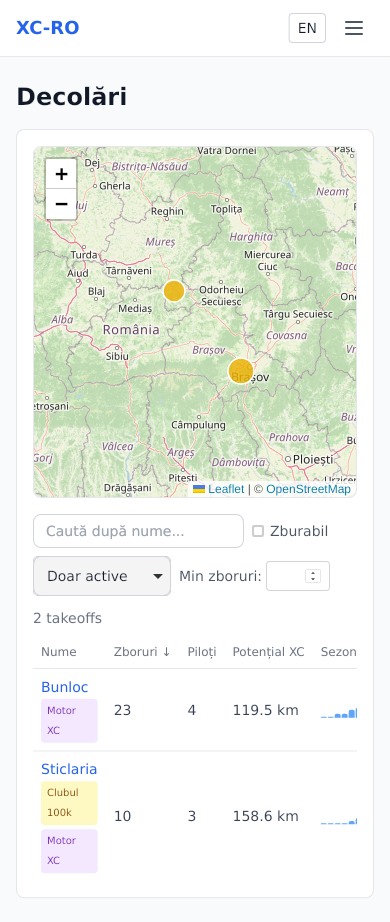
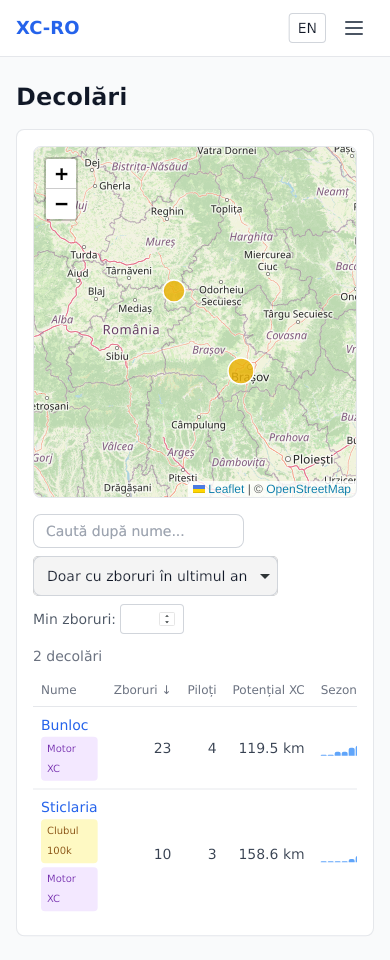
improve takeoff filters (#58)
* improve takeoff filters

* better labels

* update tests

* Refactor: extract YEAR_MS constant and clarify dormant filter label (#59)

* Initial plan

* refactor: extract YEAR_MS constant and update dormant filter label

---------

---------

diff --git a/src/components/__tests__/TakeoffsTable.test.tsx b/src/components/__tests__/TakeoffsTable.test.tsx
@@ -8,9 +8,8 @@ jest.mock("next-intl", () => ({
   useTranslations: () => (key: string) => {
     const map: Record<string, string> = {
       search: "Search by name...",
-      flyableNow: "Flyable now",
-      activeOnly: "Active only",
-      dormantOnly: "Dormant only",
+      activeOnly: "Flown in last year",
+      dormantOnly: "No flights in over a year",
       minFlights: "Min flights",
       title: "Takeoffs",
       all: "All",
@@ -137,11 +136,12 @@ const mockMapData = [
 ];
 
 describe("TakeoffsTable", () => {
-  it("renders the table with all takeoff rows (active filter default)", () => {
+  it("renders the table with takeoffs meeting min flights default (10)", () => {
     render(<TakeoffsTable takeoffs={mockTakeoffs} />);
-    // Default filter is "active" which filters to takeoffs active in last year
+    // Default filter is "all" with minFlights=10, so Dormant Site (5) is excluded
     expect(screen.getByText("Bunloc")).toBeInTheDocument();
     expect(screen.getByText("Sticlaria")).toBeInTheDocument();
+    expect(screen.queryByText("Dormant Site")).not.toBeInTheDocument();
   });
 
   it("renders table headers", () => {
@@ -157,7 +157,7 @@ describe("TakeoffsTable", () => {
 
   it("shows the count of displayed takeoffs", () => {
     render(<TakeoffsTable takeoffs={mockTakeoffs} />);
-    // With default "active" filter, active takeoffs are Bunloc, Sticlaria, and Székely
+    // Default "all" filter with minFlights=10: Bunloc (500), Sticlaria (200), Székely (100)
     expect(screen.getByText("3 takeoffs")).toBeInTheDocument();
   });
 
@@ -177,9 +177,9 @@ describe("TakeoffsTable", () => {
     const user = userEvent.setup();
     render(<TakeoffsTable takeoffs={mockTakeoffs} />);
 
-    // Switch to "all" filter to show Székely
-    const select = screen.getByDisplayValue("Active only");
-    await user.selectOptions(select, "all");
+    // Default is "all", clear minFlights to show all including Székely
+    const minFlightsInput = screen.getByRole("spinbutton");
+    await user.clear(minFlightsInput);
 
     const searchInput = screen.getByPlaceholderText("Search by name...");
     await user.type(searchInput, "Szekely");
@@ -193,11 +193,9 @@ describe("TakeoffsTable", () => {
     const user = userEvent.setup();
     render(<TakeoffsTable takeoffs={mockTakeoffs} />);
 
-    // Switch to "all" filter first
-    const select = screen.getByDisplayValue("Active only");
-    await user.selectOptions(select, "all");
-
+    // Default is "all" with minFlights=10, clear and type 100
     const minFlightsInput = screen.getByRole("spinbutton");
+    await user.clear(minFlightsInput);
     await user.type(minFlightsInput, "100");
 
     // Only Bunloc (500), Sticlaria (200), and Székely (100) have >= 100 flights
@@ -210,19 +208,24 @@ describe("TakeoffsTable", () => {
     const user = userEvent.setup();
     render(<TakeoffsTable takeoffs={mockTakeoffs} />);
 
-    const select = screen.getByDisplayValue("Active only");
+    // Clear minFlights so Dormant Site (5 flights) isn't excluded
+    const minFlightsInput = screen.getByRole("spinbutton");
+    await user.clear(minFlightsInput);
+
+    const select = screen.getByDisplayValue("All");
     await user.selectOptions(select, "dormant");
 
     expect(screen.getByText("Dormant Site")).toBeInTheDocument();
     expect(screen.queryByText("Bunloc")).not.toBeInTheDocument();
   });
 
-  it("shows all takeoffs with 'all' filter", async () => {
+  it("shows all takeoffs when minFlights is cleared", async () => {
     const user = userEvent.setup();
     render(<TakeoffsTable takeoffs={mockTakeoffs} />);
 
-    const select = screen.getByDisplayValue("Active only");
-    await user.selectOptions(select, "all");
+    // Default is "all" already, just clear minFlights
+    const minFlightsInput = screen.getByRole("spinbutton");
+    await user.clear(minFlightsInput);
 
     expect(screen.getByText("4 takeoffs")).toBeInTheDocument();
   });

diff --git a/src/components/TakeoffsTable.tsx b/src/components/TakeoffsTable.tsx
@@ -65,6 +65,8 @@ function Badge({ label, color }: { label: string; color: string }) {
   );
 }
 
+const YEAR_MS = 365 * 24 * 60 * 60 * 1000;
+
 export default function TakeoffsTable({ takeoffs, mapData }: { takeoffs: Takeoff[]; mapData?: TakeoffMapData[] }) {
   const t = useTranslations("takeoffs");
   const tc = useTranslations("common");
@@ -72,12 +74,10 @@ export default function TakeoffsTable({ takeoffs, mapData }: { takeoffs: Takeoff
   const [sortKey, setSortKey] = useState<SortKey>("flight_count");
   const [sortDir, setSortDir] = useState<"asc" | "desc">("desc");
   const [search, setSearch] = useState("");
-  const [flyableNow, setFlyableNow] = useState(false);
-  const [minFlights, setMinFlights] = useState(0);
-  const [activeFilter, setActiveFilter] = useState<"all" | "active" | "dormant">("active");
+  const [minFlights, setMinFlights] = useState(10);
+  const [activeFilter, setActiveFilter] = useState<"all" | "active" | "dormant">("all");
 
   const [now] = useState(() => Date.now());
-  const currentMonth = new Date(now).getMonth() + 1;
 
   const filtered = useMemo(() => {
     let list = takeoffs;
@@ -88,24 +88,19 @@ export default function TakeoffsTable({ takeoffs, mapData }: { takeoffs: Takeoff
     if (minFlights > 0) {
       list = list.filter((tk) => tk.flight_count >= minFlights);
     }
-    if (flyableNow) {
-      list = list.filter((tk) =>
-        tk.monthly_data?.some((d) => d.month === currentMonth && d.count > 0)
-      );
-    }
     if (activeFilter === "active") {
       list = list.filter((tk) => {
         if (!tk.last_activity) return false;
-        return now - new Date(tk.last_activity).getTime() < 365 * 24 * 60 * 60 * 1000;
+        return now - new Date(tk.last_activity).getTime() < YEAR_MS;
       });
     } else if (activeFilter === "dormant") {
       list = list.filter((tk) => {
         if (!tk.last_activity) return true;
-        return now - new Date(tk.last_activity).getTime() >= 365 * 24 * 60 * 60 * 1000;
+        return now - new Date(tk.last_activity).getTime() >= YEAR_MS;
       });
     }
     return list;
-  }, [takeoffs, search, minFlights, flyableNow, activeFilter, currentMonth, now]);
+  }, [takeoffs, search, minFlights, activeFilter, now]);
 
   const filteredMapData = useMemo(() => {
     if (!mapData) return [];
@@ -160,10 +155,6 @@ export default function TakeoffsTable({ takeoffs, mapData }: { takeoffs: Takeoff
           onChange={(e) => setSearch(e.target.value)}
           className="px-3 py-1.5 text-sm border border-gray-300 rounded-lg focus:ring-1 focus:ring-blue-500 focus:border-blue-500"
         />
-        <label className="flex items-center gap-1.5 text-sm text-gray-600">
-          <input type="checkbox" checked={flyableNow} onChange={(e) => setFlyableNow(e.target.checked)} />
-          {t("flyableNow")}
-        </label>
         <select
           value={activeFilter}
           onChange={(e) => setActiveFilter(e.target.value as "all" | "active" | "dormant")}

diff --git a/src/components/__tests__/tableSnapshots.test.tsx b/src/components/__tests__/tableSnapshots.test.tsx
@@ -11,9 +11,8 @@ jest.mock("next-intl", () => ({
     const maps: Record<string, Record<string, string>> = {
       takeoffs: {
         search: "Search...",
-        flyableNow: "Flyable now",
-        activeOnly: "Active only",
-        dormantOnly: "Dormant only",
+        activeOnly: "Flown in last year",
+        dormantOnly: "No flights in over a year",
         minFlights: "Min flights",
         title: "Takeoffs",
         name: "Name",